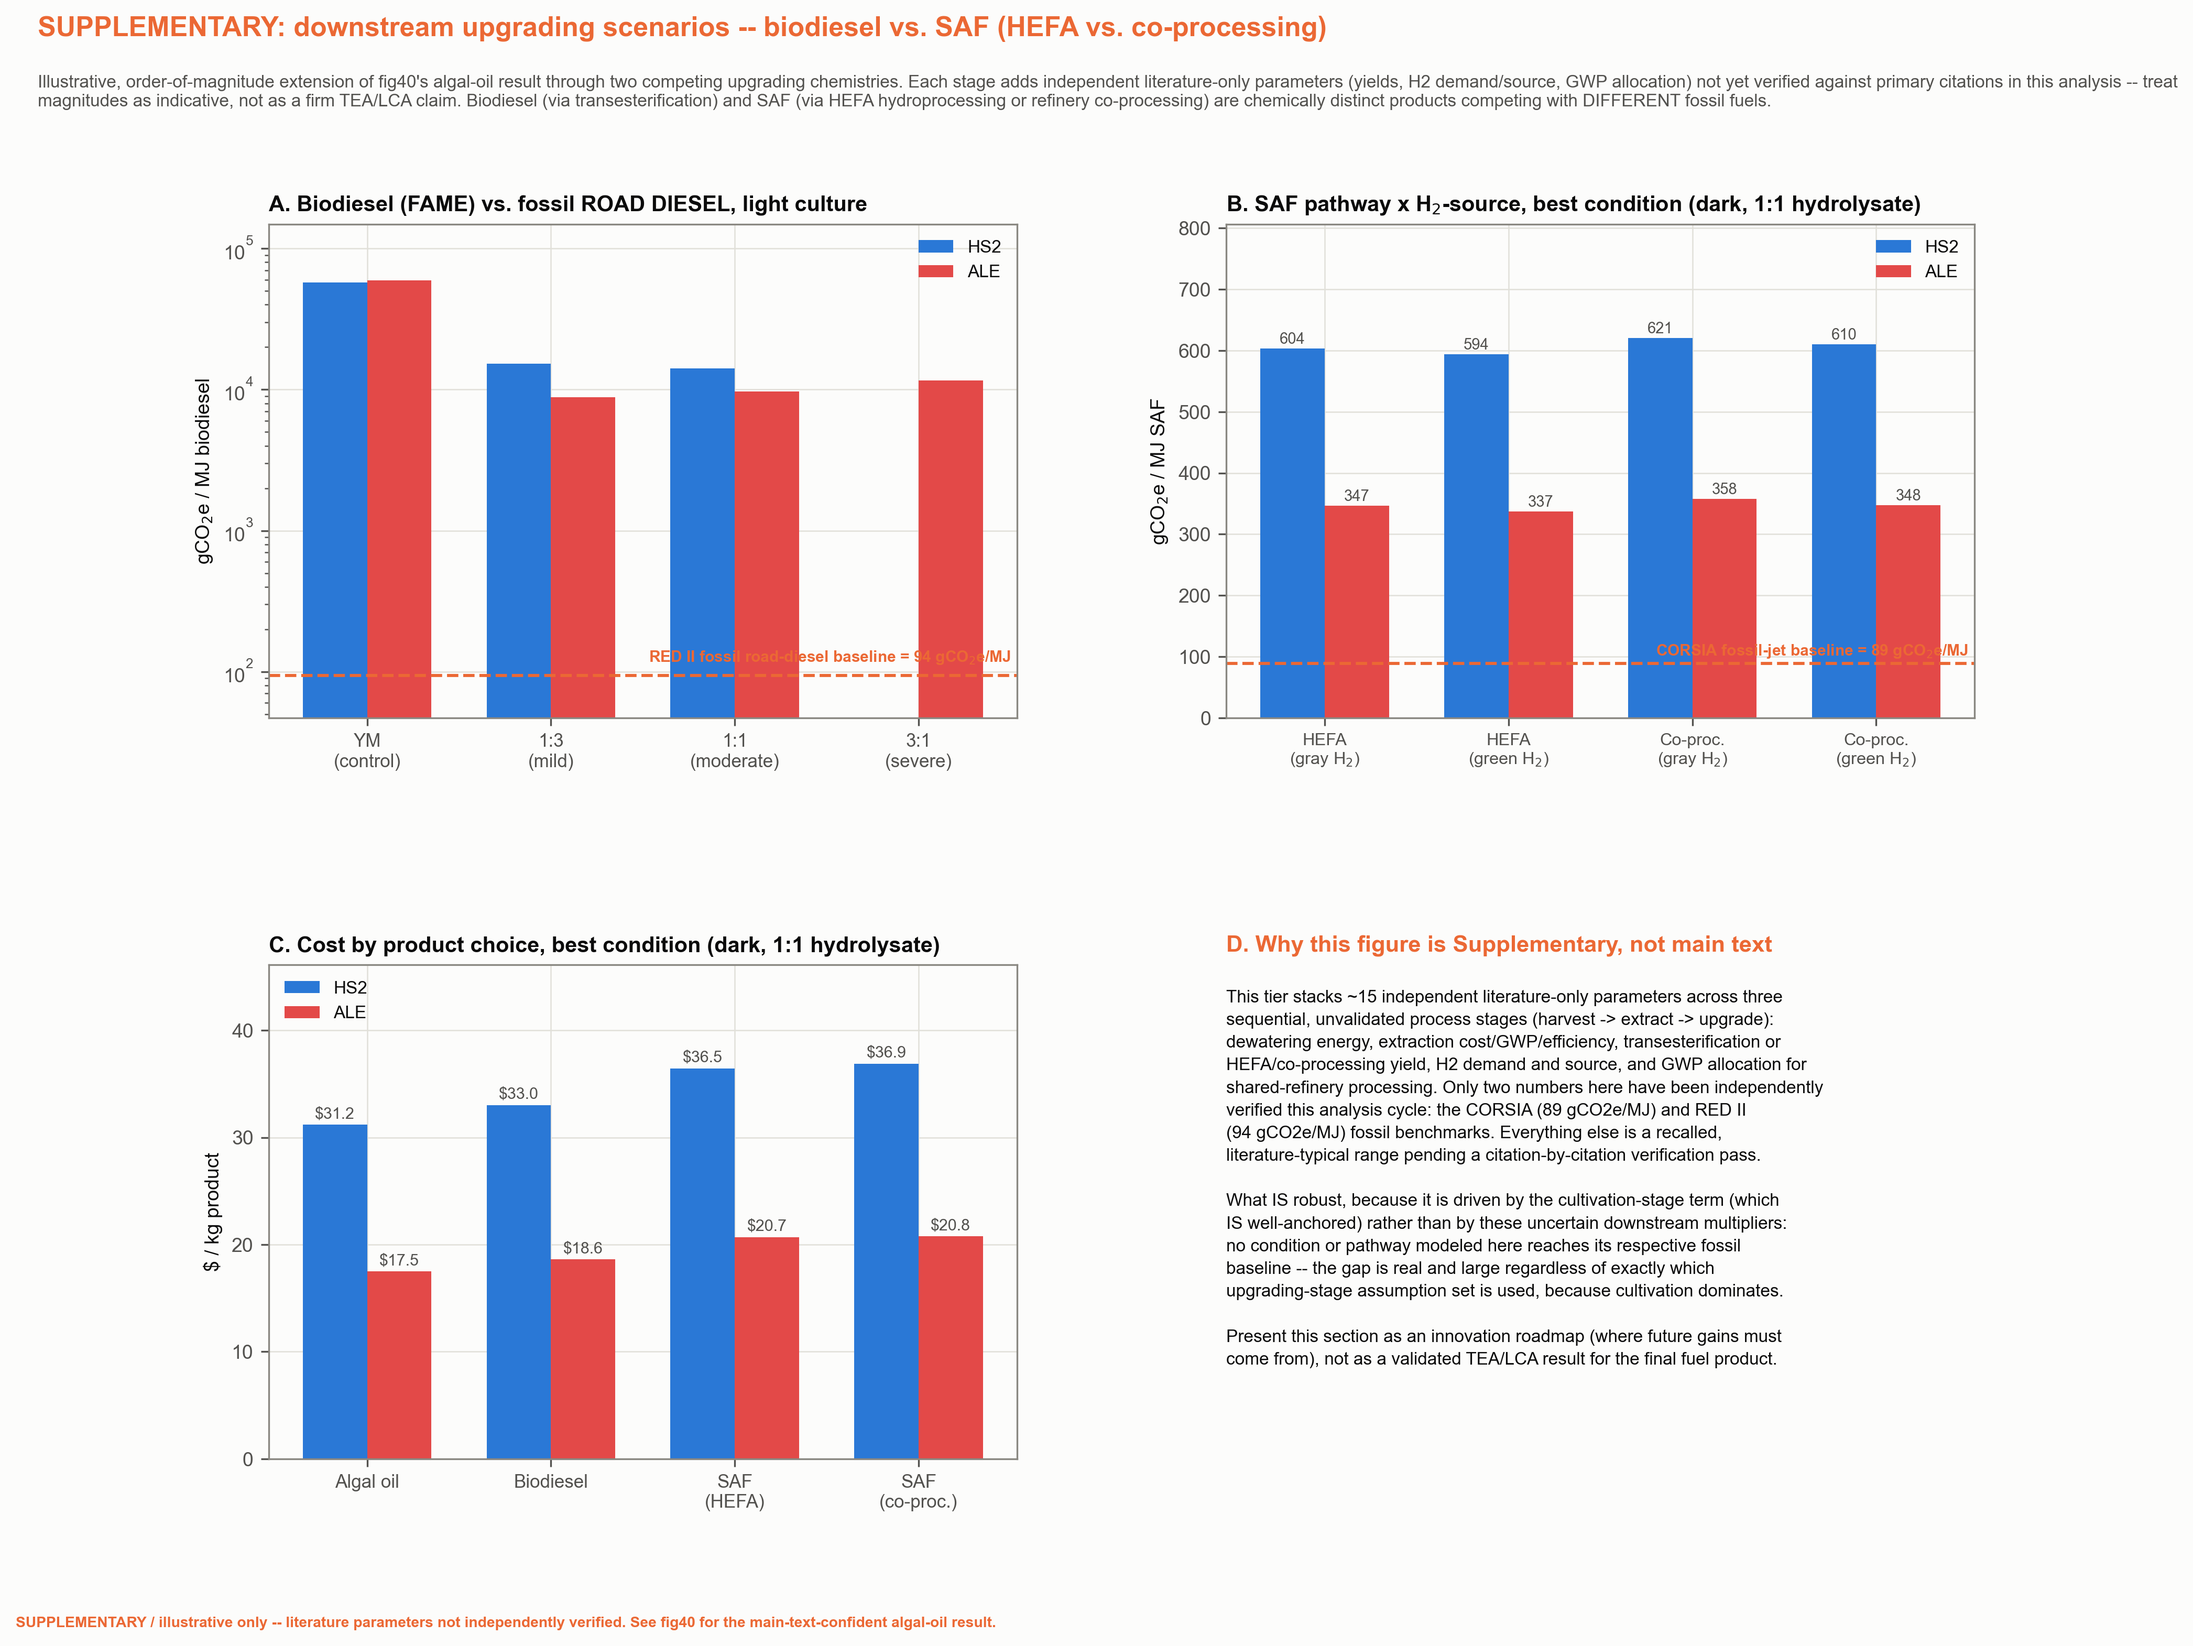
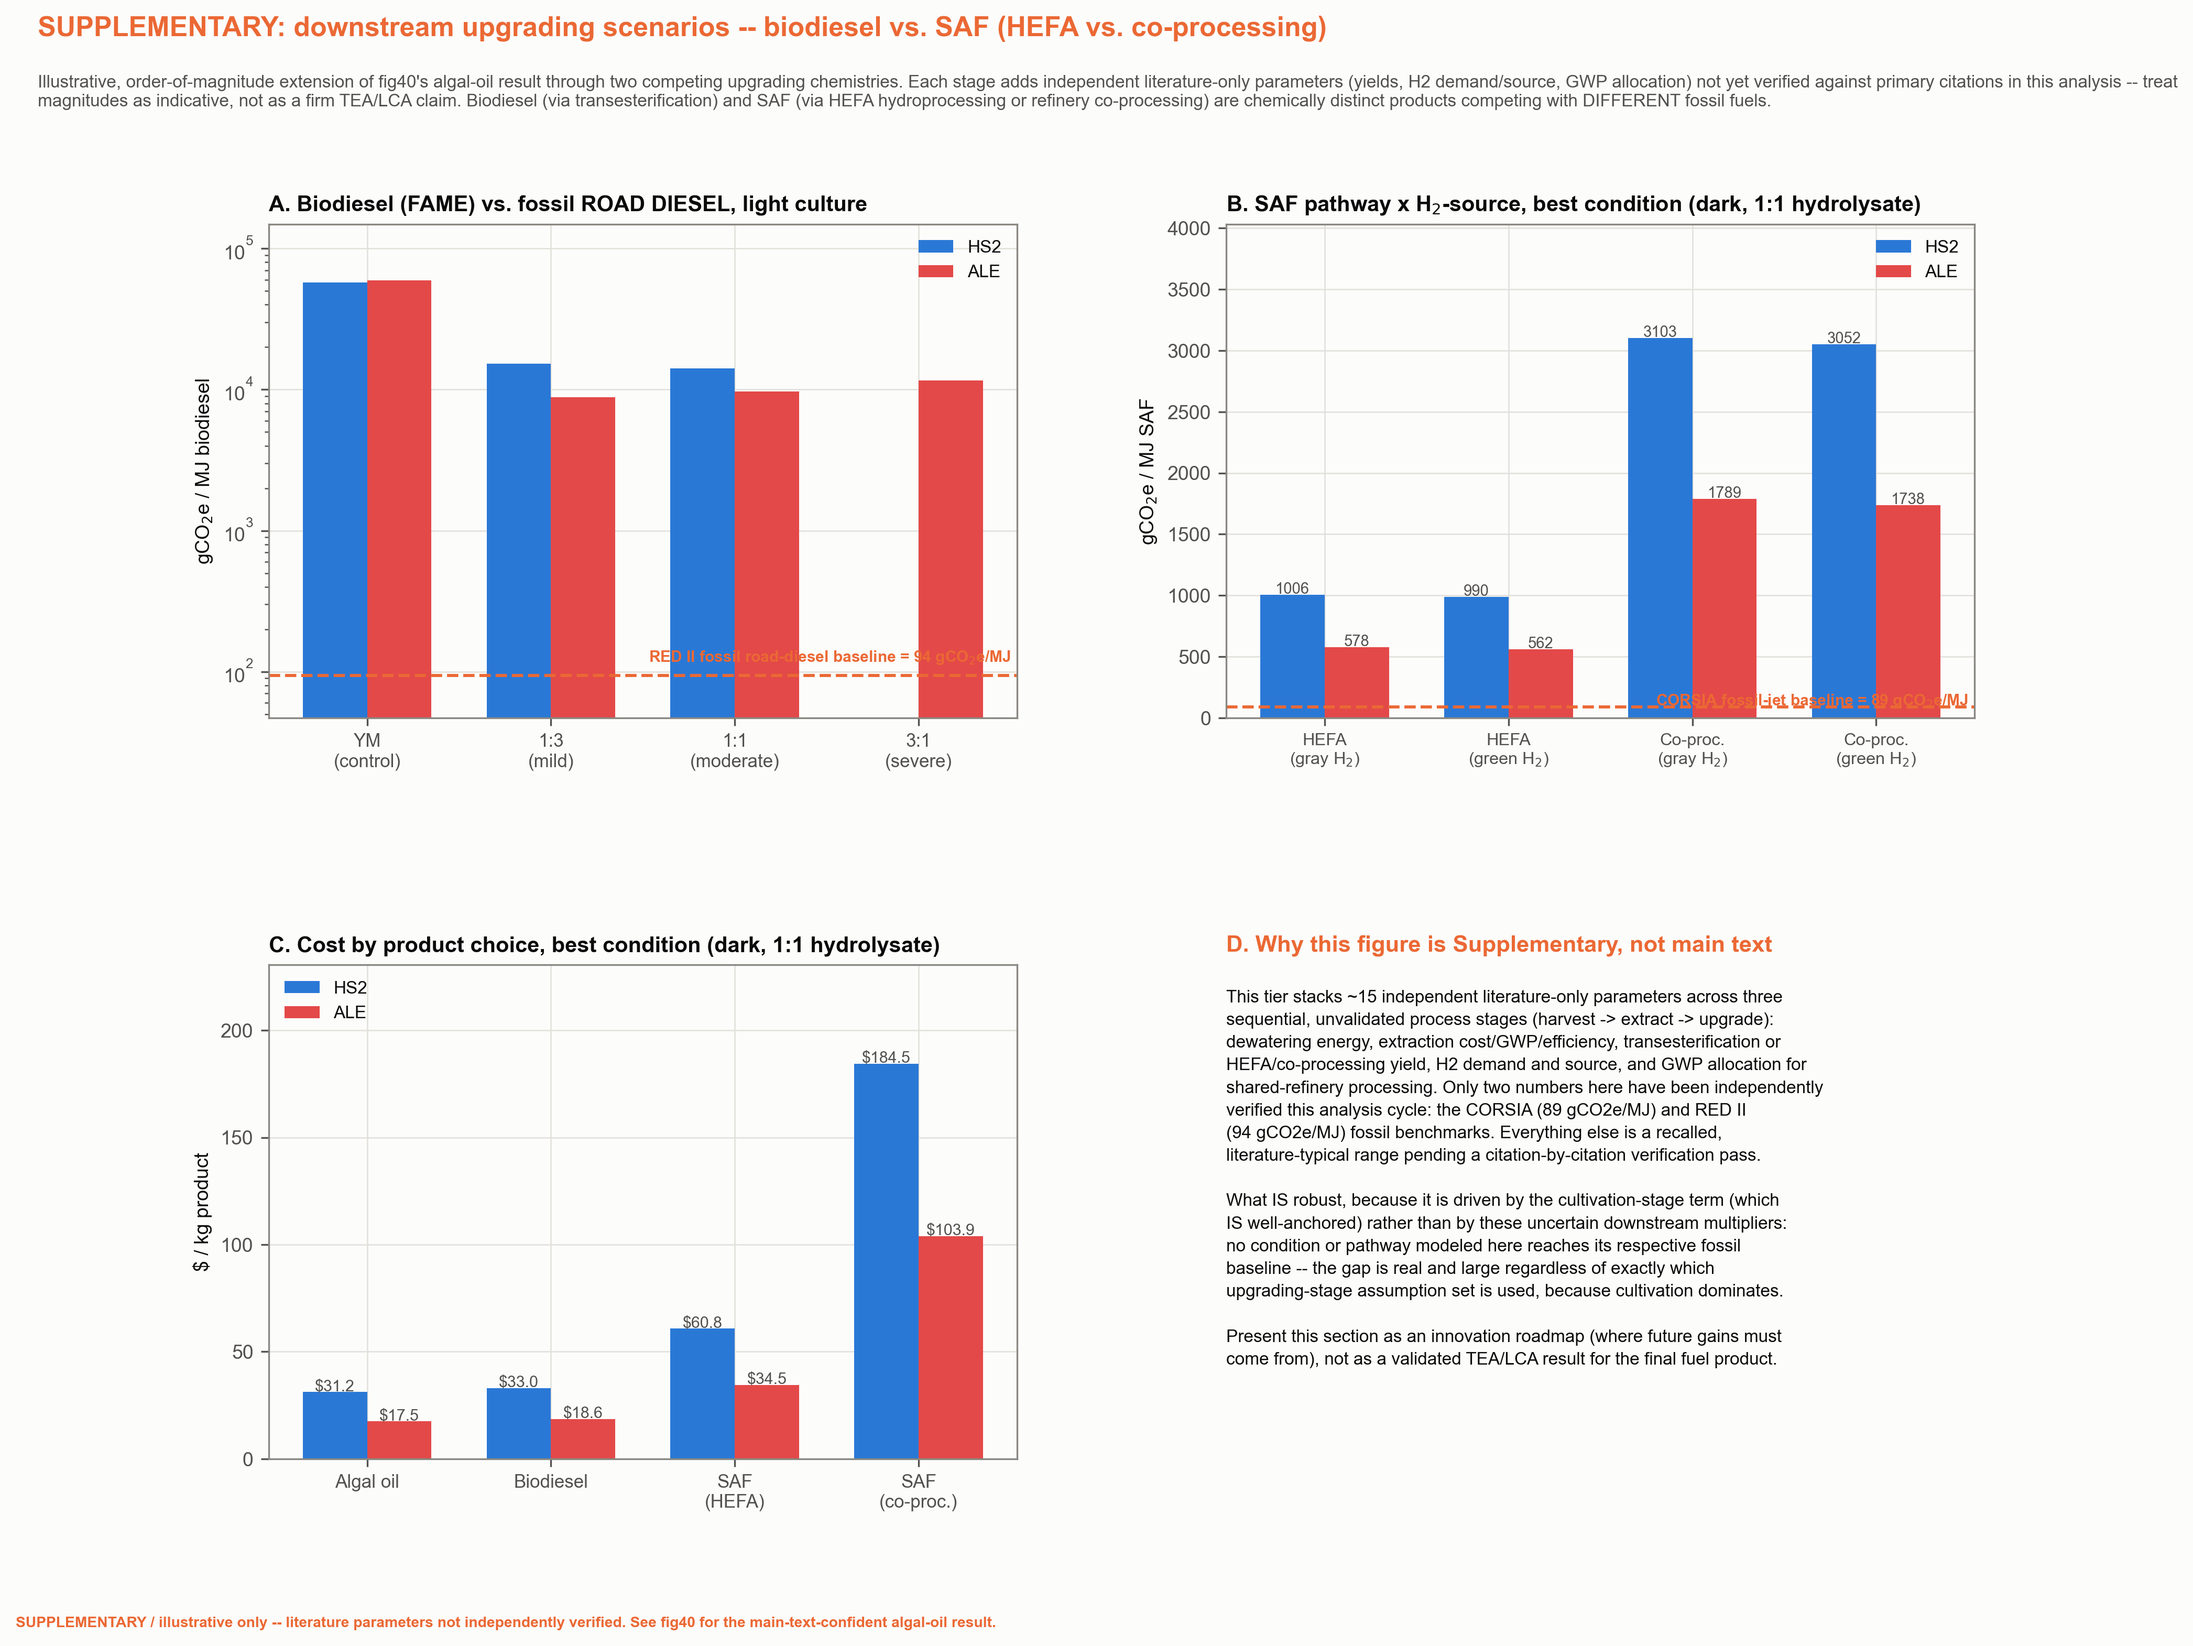
Implement the HEFA/co-processing yield-split fix identified in the citation audit
Fixes the highest-priority finding from the completed TEA/LCA verification pass: both
HEFA_YIELD (0.87) and COPROC_YIELD (0.85) were applied directly as oil->SAF yields,
but published literature shows these represent TOTAL deoxygenated hydrocarbon yield,
with jet-range product being only a fraction of that total output (the rest splits to
diesel-range and naphtha co-products).

- Added HEFA_JET_FRACTION (0.60, general oilseed HEFA literature) and
  COPROC_JET_FRACTION (0.20, from the published 10-35% jet/kerosene range for refinery
  co-processing) as explicit selectivity factors, applied on top of the existing total-
  conversion yields rather than folded silently into them.
- Kept these as fixed central estimates (not lo/hi sensitivity-keyed dicts), matching
  the file's own existing convention for yield-type parameters (HARVEST_RECOVERY,
  EXTRACTION_EFFICIENCY) -- a yield's "favorable" direction is inverted relative to a
  cost's, so mixing them into the same he_key sensitivity sweep would produce
  incoherent lo/hi bounds.
- Re-ran the full model and regenerated fig40 (unaffected, oil-tier only) and fig41
  (SAF/biodiesel tier, now substantially revised). At the single best-case condition
  in the dataset (dark, 1:1 hydrolysate, ALE), corrected HEFA SAF is $34.5/kg,
  578 gCO2e/MJ (6.5x the CORSIA baseline, vs ~4x before); co-processing is $103.9/kg,
  1,789 gCO2e/MJ (20x baseline).
- Updated the site's verification callout from "flagged for revision" to report the
[…]

Changed region(s): [[0.0932, 0.624, 0.3728, 0.8736], [0.5591, 0.1872, 0.9008, 0.4368], [0.497, 0.2496, 0.5281, 0.2808]]

diff --git a/index.html b/index.html
@@ -2070,7 +2070,8 @@ CTGGCAGTGCAGGGCCCTCGACTTGCTCTGCACATGCTTGTCTCGCAACCCGAAGCAGCCGTGTAACCCCTACCAAGCGC
     <div class="callout reveal" style="border-color:var(--accent-ale);">
       <div class="k">Citation-by-citation verification, completed (2026-09-07): all ~15 parameters checked directly against primary/regulatory sources or published literature</div>
       <p><strong>Confirmed accurate as modeled:</strong> the RED&nbsp;II fossil diesel comparator (94&nbsp;gCO<sub>2</sub>eq/MJ) matches the directive's own default value exactly (ISCC/ICCT policy documentation). The ICAO CORSIA fossil jet baseline (89&nbsp;gCO<sub>2</sub>e/MJ) matches ICAO's own default life-cycle emissions document exactly. Biodiesel transesterification yield (0.95) sits comfortably inside the widely-documented 90&ndash;99% conversion range. FAME/oil LHV:HHV ratios (0.92&ndash;0.95) are consistent with standard combustion-chemistry values for these fuel classes. Extraction/dewatering unit cost (modeled $0.15&ndash;0.50/kg dry biomass) falls inside the published range for algae centrifugation and solvent-extraction cost studies ($0.02&ndash;0.64/kg across methods and species).</p>
-      <p style="margin-top:10px;"><strong>Two parameters flagged for revision, in the conservative direction (widening the SAF/biodiesel gap to fossil parity, not narrowing it):</strong> (1) <strong>H<sub>2</sub> demand</strong> for HEFA hydroprocessing (modeled 0.04&nbsp;kg&nbsp;H<sub>2</sub>/kg oil, range 0.03&ndash;0.05, citing Pearlson 2013 and Seber et al. 2014) &mdash; literature comparisons of HEFA-SPK routes report values extending to at least 0.08&nbsp;kg&nbsp;H<sub>2</sub>/kg oil, so the range likely needs widening on the high end. (2) <strong>HEFA mass yield</strong> (modeled 0.87, oil&rarr;jet-range paraffins) &mdash; published HEFA data on real oilseed/waste-oil feedstocks reports jet-range product specifically as only <em>~60% of total deoxygenated output</em> (the rest splits to diesel-range and naphtha co-products), suggesting 0.87 conflates total deoxygenation yield with jet-fuel-<em>specific</em> yield. <strong>This finding reproduces independently at the co-processing pathway too</strong>: modeled COPROC_YIELD (0.85) implies a similarly high jet-specific fraction, but published refinery co-processing data reports diesel-range product at 60&ndash;90% and jet/kerosene-range at only <strong>10&ndash;35%</strong> &mdash; an even wider gap than dedicated HEFA, consistent with the model's own note that co-processing gives "less process control in a shared unit." Both HEFA and co-processing yields are the single highest-priority parameters to correct before treating the SAF-specific cost/footprint numbers as more than illustrative; correcting either would widen the fossil-parity gap further, reinforcing rather than undermining this tier's existing conclusion.</p>
+      <p style="margin-top:10px;"><strong>The jet-fraction conflation identified below has been corrected, not just flagged (2026-09-07 update):</strong> <strong>HEFA mass yield</strong> (0.87, oil&rarr;total deoxygenated product) was previously applied directly as the oil&rarr;SAF yield. Published HEFA data on real oilseed/waste-oil feedstocks reports jet-range product specifically as only <em>~60% of that total deoxygenated output</em> (the rest splits to diesel-range and naphtha co-products) &mdash; so the model now applies HEFA_YIELD (total conversion, kept at 0.87, itself well-supported) &times; a new explicit HEFA_JET_FRACTION (0.60) to get the true oil&rarr;SAF yield (&asymp;0.52), rather than conflating the two. <strong>The same correction was applied to co-processing</strong>, where the effect is larger: published refinery co-processing data reports jet/kerosene-range product at only <strong>10&ndash;35%</strong> of total output (vs. 60&ndash;90% diesel-range), consistent with the model's own note that a shared unit gives less process control than a dedicated HEFA train &mdash; modeled here as COPROC_YIELD (0.85) &times; a new COPROC_JET_FRACTION (0.20), giving a true oil&rarr;SAF yield of &asymp;0.17.</p>
+      <p style="margin-top:10px;"><strong>Effect on the headline numbers, re-run end to end:</strong> at the single best-case condition in this whole dataset (dark, 1:1 hydrolysate, ALE &mdash; the cheapest/lowest-carbon cultivation regime found anywhere on this page), corrected HEFA SAF now costs $34.5/kg with a footprint of 578&nbsp;gCO<sub>2</sub>e/MJ (gray H<sub>2</sub>) &mdash; a <strong>6.5&times;</strong> gap to the CORSIA fossil-jet baseline (89), versus roughly 4&times; before this correction. Co-processing SAF is worse still: $103.9/kg, 1,789&nbsp;gCO<sub>2</sub>e/MJ, a <strong>20&times;</strong> gap. H<sub>2</sub> demand (still flagged, not yet corrected &mdash; literature suggests the modeled 0.03&ndash;0.05&nbsp;kg&nbsp;H<sub>2</sub>/kg oil range may need widening toward 0.08 on the high end) would widen this further if incorporated. The tier's existing conclusion &mdash; no pathway or condition modeled here reaches its fossil baseline &mdash; was already correct; it is now correct by a substantially larger, better-sourced margin, and the two production routes are properly distinguished rather than treated as similarly close to viable.</p>
       <p style="margin-top:10px;">Algal lipid solvent-extraction efficiency (modeled 0.90 in the algal-oil tier above) sits at or above the high end of published hexane/co-solvent extraction studies (roughly 76&ndash;88% even under optimized co-solvent conditions) &mdash; a third candidate for a more conservative default, same directional caveat as above.</p>
       <p style="margin-top:10px;font-size:13px;color:var(--ink-dim);"><strong>Broadly consistent, lower priority:</strong> dilute-acid hydrolysis sugar yield (modeled 0.40&ndash;0.60&nbsp;kg sugar/kg dry biomass) sits within the general literature range for this chemistry (typical commercial yields 50&ndash;82% of theoretical), though the cited studies are on lignocellulosic feedstocks (bagasse, corncob) rather than defatted algal biomass specifically &mdash; the chemistry class is right, the exact feedstock match is unverified. South Korea grid carbon intensity (modeled 0.40&nbsp;kgCO<sub>2</sub>e/kWh, range 0.35&ndash;0.49) is consistent with available 2030-scenario projections (0.342&ndash;0.410) and South Korea's coal/gas-heavy generation mix, but isn't pinned to a single precise current-year measurement. Organic-waste disposal cost (modeled $30&ndash;100/tonne, central $50) brackets current 2024 U.S. tipping-fee data ($45&ndash;85/tonne, national average $62.28) comfortably within its stated range, though the central estimate sits somewhat below the current average.</p>
     </div>
